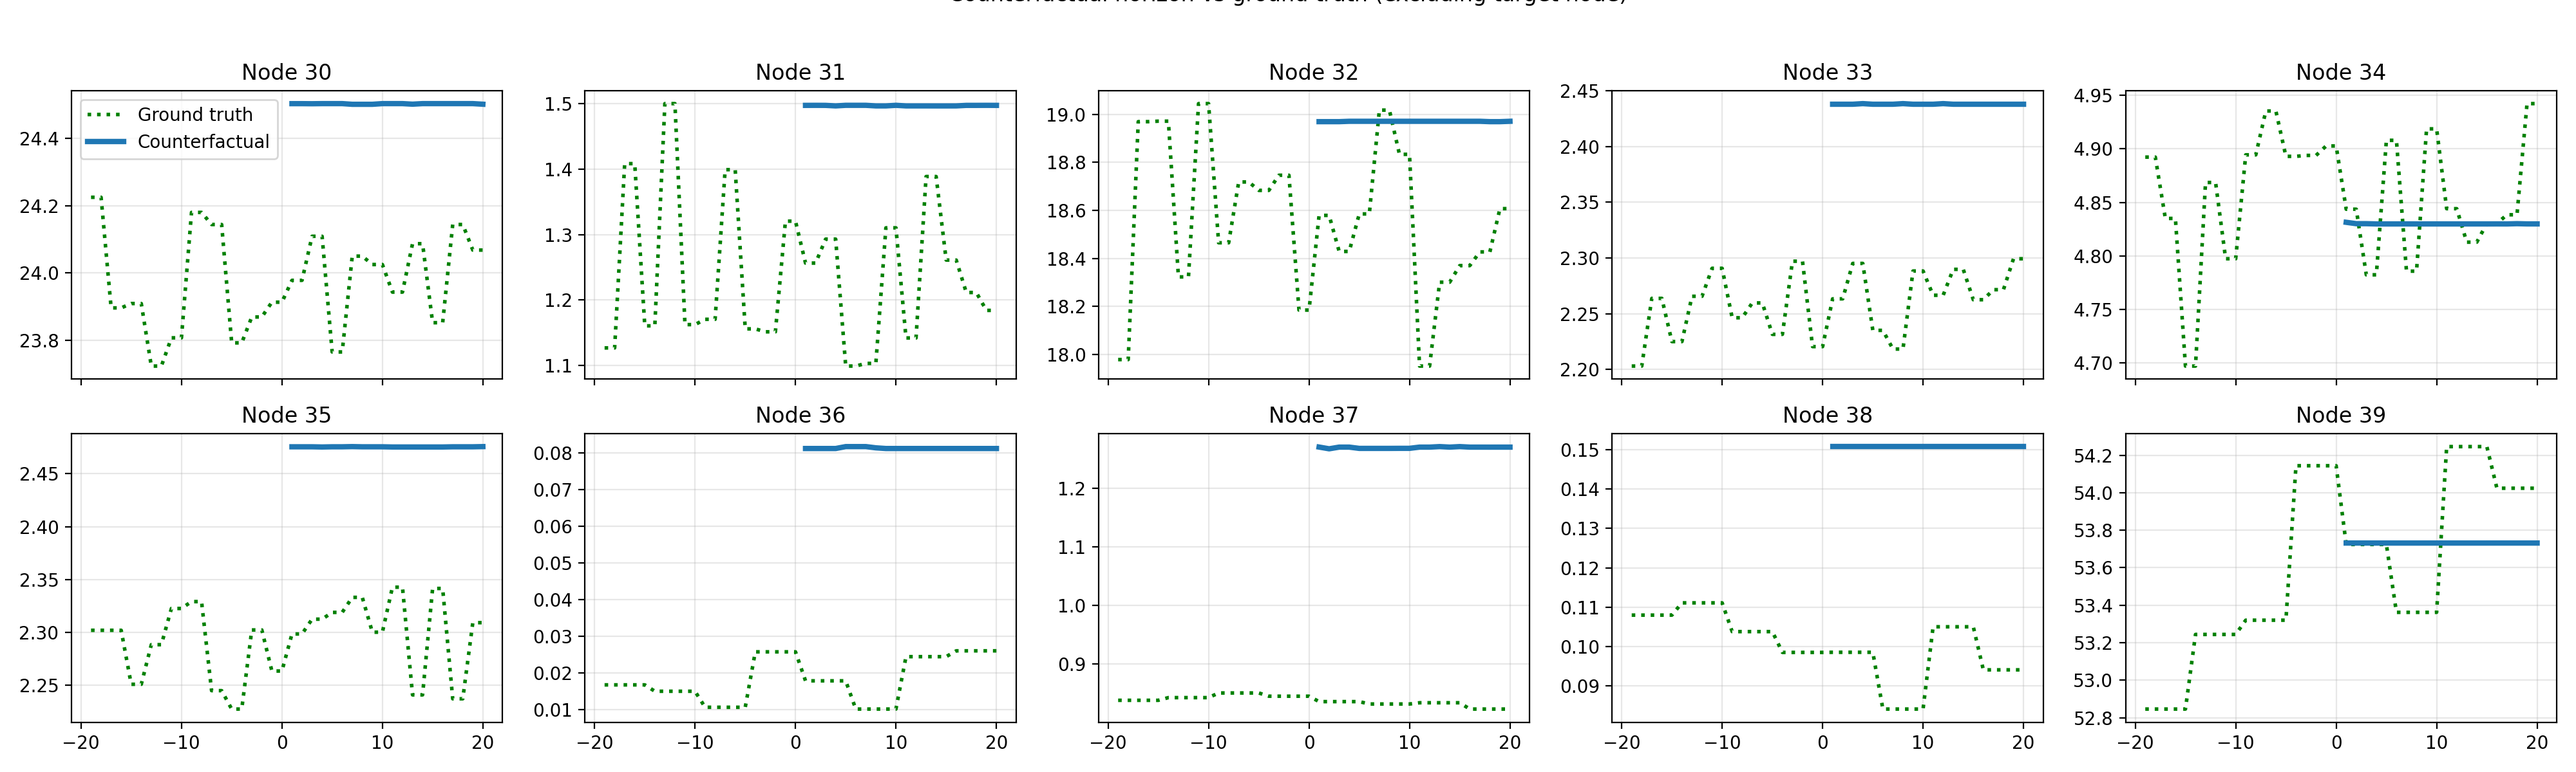
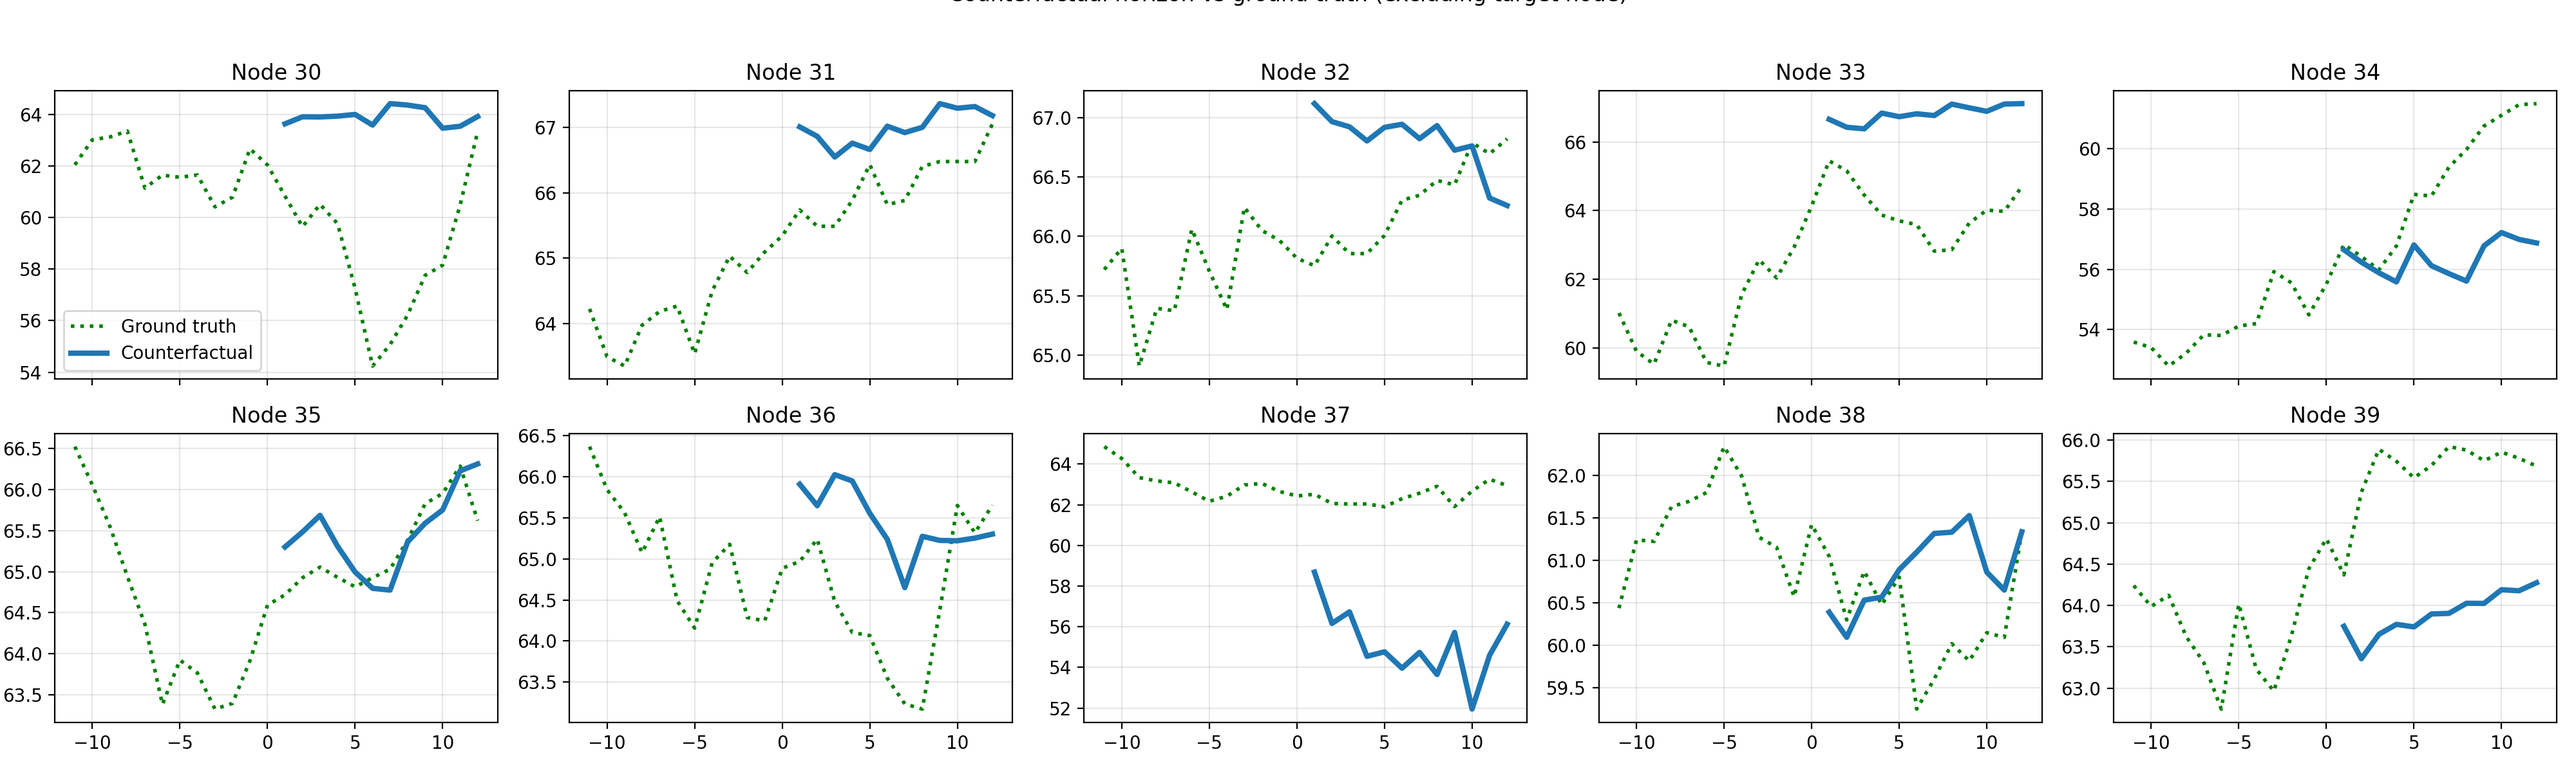
Found a mistake in the counterfactual generation logic, fixed that one. Added new target trajectory options.

diff --git a/main.py b/main.py
@@ -241,8 +241,6 @@ def add_counterfactual_subcommand(subparsers: argparse._SubParsersAction[argpars
     parser.add_argument("--spatial_weight", type=float, default=1e-3)
     parser.add_argument("--control_weight", type=float, default=0.0)
     parser.add_argument("--rate_limit", type=float, default=None)
-    parser.add_argument("--clamp_min", type=float, default=None)
-    parser.add_argument("--clamp_max", type=float, default=None)
     parser.add_argument("--lower_bound", type=float, default=None)
     parser.add_argument("--upper_bound", type=float, default=None)
     parser.add_argument("--device", type=str, default=None)
@@ -335,24 +333,6 @@ def add_counterfactual_subcommand(subparsers: argparse._SubParsersAction[argpars
         help="Number of lagged time steps to plot (from most recent backwards). If None, plots all available lag steps.",
     )
     parser.add_argument(
-        "--mask_target_history",
-        action="store_true",
-        help="Mask the target node's lag history when using the short-term forecaster during iterative counterfactuals.",
-    )
-    parser.add_argument(
-        "--mask_target_history_mode",
-        type=str,
-        choices=["zeros", "guidance", "alternating", "blend"],
-        default="zeros",
-        help="Strategy for masking the target node history when --mask_target_history is set.",
-    )
-    parser.add_argument(
-        "--mask_target_history_alpha",
-        type=float,
-        default=0.5,
-        help="Guidance weight for --mask_target_history_mode=blend (alpha * guidance + (1-alpha) * forecast).",
-    )
-    parser.add_argument(
         "--metrics_path",
         type=str,
         default=None,
@@ -376,20 +356,6 @@ def add_counterfactual_subcommand(subparsers: argparse._SubParsersAction[argpars
         choices=["baseline", "guidance", "adjusted", "original", "actions"],
         default="baseline",
         help="Which series to treat as the input for metrics in iterative guidance.",
-    )
-    parser.add_argument(
-        "--guidance_start_source",
-        type=str,
-        choices=["baseline", "ground_truth", "lag"],
-        default="baseline",
-        help="Select the starting point for the guidance trajectory interpolation.",
-    )
-    parser.add_argument(
-        "--guidance_interpolation",
-        type=str,
-        choices=["linear"],
-        default="linear",
-        help="Interpolation scheme for guidance trajectory (last point is always fixed).",
     )
     parser.add_argument(
         "--cf_horizon",
@@ -443,7 +409,7 @@ def add_counterfactual_subcommand(subparsers: argparse._SubParsersAction[argpars
     parser.add_argument(
         "--guidance_path_strategy",
         type=str,
-        choices=["diffusion", "linear"],
+        choices=["diffusion", "linear", "dc_shift", "step"],
         default="diffusion",
         help="How to construct the guidance trajectory between start (last lag) and adjusted target endpoint.",
     )
@@ -711,55 +677,6 @@ def prepare_target(default_target: torch.Tensor, path: Optional[str]) -> torch.T
     return tensor
 
 
-def mask_target_history_input(
-    forecaster_input: torch.Tensor,
-    target_node: int,
-    target_channel: int,
-    mask_value: Optional[torch.Tensor] = None,
-) -> torch.Tensor:
-    if target_node < 0:
-        return forecaster_input
-    if forecaster_input.dim() != 4:
-        raise ValueError("forecaster_input must have shape (batch, channels, nodes, lag)")
-    if target_node >= forecaster_input.size(2):
-        raise ValueError(f"target node {target_node} is out of range for {forecaster_input.size(2)} nodes")
-    masked = forecaster_input.clone()
-    masked[:, :, target_node, :] = 0.0
-    if mask_value is not None and 0 <= target_channel < masked.size(1):
-        fill = torch.as_tensor(mask_value, device=masked.device, dtype=masked.dtype)
-        masked[:, target_channel, target_node, :] = fill
-    return masked
-
-
-def compute_mask_target_value(
-    mode: str,
-    step: int,
-    guidance_target: Optional[torch.Tensor],
-    iterative_predictions: Optional[torch.Tensor],
-    target_node: int,
-    alpha: float,
-) -> Optional[torch.Tensor]:
-    if mode == "zeros":
-        return None
-    if guidance_target is None:
-        raise ValueError("guidance_target is required for non-zero mask_target_history modes.")
-    if target_node < 0 or target_node >= guidance_target.size(0):
-        raise ValueError(f"target node {target_node} is out of range for {guidance_target.size(0)} nodes")
-    guidance_idx = max(step - 1, 0)
-    guidance_val = guidance_target[target_node, guidance_idx]
-    forecast_val = guidance_val
-    if iterative_predictions is not None and step > 0:
-        forecast_val = iterative_predictions[target_node, step - 1]
-    if mode == "guidance":
-        return guidance_val
-    if mode == "alternating":
-        return guidance_val if step % 2 == 1 else forecast_val
-    if mode == "blend":
-        alpha_val = float(alpha)
-        return guidance_val * alpha_val + forecast_val * (1.0 - alpha_val)
-    raise ValueError(f"Unknown mask_target_history_mode {mode}")
-
-
 def adjust_target(
     target: torch.Tensor,
     percent: float,
@@ -965,6 +882,82 @@ def build_linear_guidance_target(
         interp = start_val + (end_val - start_val) * steps
         interp[-1] = end_val
         guidance[node] = interp
+
+    return guidance
+
+
+def build_dc_shift_guidance_target(
+    baseline: torch.Tensor,
+    adjusted_target: torch.Tensor,
+    past_window: torch.Tensor,
+    target_node: int,
+    target_channel: int,
+) -> torch.Tensor:
+    """
+    Use a flat guidance path at the adjusted target endpoint for the chosen node(s);
+    other nodes follow the baseline forecast.
+    """
+
+    if baseline.shape != adjusted_target.shape:
+        raise ValueError("baseline and adjusted_target must share the same shape for DC-shift guidance")
+    horizon = baseline.shape[1]
+    if horizon == 0:
+        return baseline.clone()
+
+    num_nodes = baseline.shape[0]
+    if target_node >= num_nodes or target_node < -1:
+        raise ValueError(f"target_adjust_node {target_node} is out of range for {num_nodes} nodes")
+    if target_channel < 0 or target_channel >= past_window.shape[-1]:
+        raise ValueError(f"target_channel {target_channel} is out of range for past window features {past_window.shape[-1]}")
+
+    guidance = baseline.clone()
+    target_nodes = range(num_nodes) if target_node < 0 else [target_node]
+
+    for node in target_nodes:
+        end_val = adjusted_target[node, -1].to(baseline.device, baseline.dtype)
+        guidance[node] = end_val
+
+    return guidance
+
+
+def build_step_guidance_target(
+    baseline: torch.Tensor,
+    adjusted_target: torch.Tensor,
+    past_window: torch.Tensor,
+    target_node: int,
+    target_channel: int,
+) -> torch.Tensor:
+    """
+    Hold the last observed lag value for half the horizon, then step to the adjusted target.
+    """
+
+    if baseline.shape != adjusted_target.shape:
+        raise ValueError("baseline and adjusted_target must share the same shape for step guidance")
+    horizon = baseline.shape[1]
+    if horizon == 0:
+        return baseline.clone()
+
+    num_nodes = baseline.shape[0]
+    if target_node >= num_nodes or target_node < -1:
+        raise ValueError(f"target_adjust_node {target_node} is out of range for {num_nodes} nodes")
+    if target_channel < 0 or target_channel >= past_window.shape[-1]:
+        raise ValueError(f"target_channel {target_channel} is out of range for past window features {past_window.shape[-1]}")
+
+    guidance = baseline.clone()
+    start_values = past_window[-1, :, target_channel].to(baseline.device, baseline.dtype)
+    target_nodes = range(num_nodes) if target_node < 0 else [target_node]
+
+    if horizon == 1:
+        for node in target_nodes:
+            guidance[node, 0] = adjusted_target[node, -1].to(baseline.device, baseline.dtype)
+        return guidance
+
+    step_idx = max(1, horizon // 2)
+    for node in target_nodes:
+        start_val = start_values[node]
+        end_val = adjusted_target[node, -1].to(baseline.device, baseline.dtype)
+        guidance[node, :step_idx] = start_val
+        guidance[node, step_idx:] = end_val
 
     return guidance
 
@@ -1808,6 +1801,22 @@ def run_counterfactual_command(args: argparse.Namespace) -> None:
                 args.target_adjust_node,
                 target_ch,
             )
+        elif args.guidance_path_strategy == "dc_shift":
+            guidance_target = build_dc_shift_guidance_target(
+                baseline_forecast,
+                adjusted_target,
+                past_window,
+                args.target_adjust_node,
+                target_ch,
+            )
+        elif args.guidance_path_strategy == "step":
+            guidance_target = build_step_guidance_target(
+                baseline_forecast,
+                adjusted_target,
+                past_window,
+                args.target_adjust_node,
+                target_ch,
+            )
         else:
             guidance_target = build_diffusion_guidance_target(
                 baseline_forecast,
@@ -1857,8 +1866,6 @@ def run_counterfactual_command(args: argparse.Namespace) -> None:
         spatial_weight=args.spatial_weight,
         control_energy_weight=args.control_weight,
         rate_limit=args.rate_limit,
-        clamp_min=args.clamp_min,
-        clamp_max=args.clamp_max,
         anchor_start_weight=args.anchor_start_weight,
         anchor_end_weight=args.anchor_end_weight,
         anchor_loss_scale=args.anchor_loss_scale,
@@ -1916,23 +1923,24 @@ def run_counterfactual_command(args: argparse.Namespace) -> None:
         edit_mask = edit_mask * base_mask
         edit_mask = edit_mask.to(device)
 
+        # Identify control nodes vs dependent nodes based on edit mask
+        # Control nodes: can be perturbed (edit_mask is non-zero at last timestep)
+        # Dependent nodes: cannot be perturbed (edit_mask is zero, includes target node)
+        node_is_control = (edit_mask[-1].sum(dim=-1) > 0)  # Shape (N,)
+        node_is_dependent = ~node_is_control  # Shape (N,)
+
         for step in range(iter_steps):
-            if 0 <= target_ch < current_window.shape[-1]:
-                iterative_prev_last_lag[:, step] = current_window[-1, :, target_ch]
-            mask_value = None
-            if args.mask_target_history and args.target_adjust_node >= 0:
-                mask_value = compute_mask_target_value(
-                    args.mask_target_history_mode,
-                    step,
-                    target_series,
-                    iterative_predictions,
-                    args.target_adjust_node,
-                    args.mask_target_history_alpha,
-                )
+            # Step 1: Shift left and duplicate last value for perturbation
+            # This creates a window where position T-1 is a copy of position T-2
+            shifted_window = torch.cat([current_window[1:], current_window[-1:].clone()], dim=0)
+
+            # Record pre-perturbation value (from the duplicated last position)
+            if 0 <= target_ch < shifted_window.shape[-1]:
+                iterative_prev_last_lag[:, step] = shifted_window[-1, :, target_ch]
+
+            # Get baseline prediction from shifted window (before perturbation)
             with torch.no_grad():
-                step_input = prepare_forecaster_input(current_window.unsqueeze(0))
-                if args.mask_target_history and args.target_adjust_node >= 0:
-                    step_input = mask_target_history_input(step_input, args.target_adjust_node, target_ch, mask_value)
+                step_input = prepare_forecaster_input(shifted_window.unsqueeze(0))
                 step_pred = forecaster_module.forward_pass(
                     short_forecaster,
                     step_input,
@@ -1967,14 +1975,12 @@ def run_counterfactual_command(args: argparse.Namespace) -> None:
                 anchor_weights=anchor_step,
                 node_weights=node_weights,
                 neighbor_only_inputs=short_meta.get("neighbor_only_inputs", False),
-                masked_target_node=args.target_adjust_node if args.mask_target_history else None,
-                masked_target_channel=target_ch if args.mask_target_history else None,
-                masked_target_value=mask_value if args.mask_target_history else None,
                 model_type=short_model_type,
                 lag_weights=short_meta.get("lag_weights"),
             )
 
-            fixed_values = current_window.unsqueeze(0).repeat(args.samples, 1, 1, 1)
+            # Step 2: Perturb the shifted window (only last position is editable)
+            fixed_values = shifted_window.unsqueeze(0).repeat(args.samples, 1, 1, 1)
             warm_start = fixed_values if args.warm_start else None
             samples = generator.generate(
                 sample_shape=sample_shape,
@@ -1986,10 +1992,9 @@ def run_counterfactual_command(args: argparse.Namespace) -> None:
                 fixed_values=fixed_values,
             )
 
+            # Evaluate samples and select best based on forecast MSE
             with torch.no_grad():
                 cf_input = prepare_forecaster_input(samples)
-                if args.mask_target_history and args.target_adjust_node >= 0:
-                    cf_input = mask_target_history_input(cf_input, args.target_adjust_node, target_ch, mask_value)
                 cf_preds = forecaster_module.forward_pass(
                     short_forecaster,
                     cf_input,
@@ -2016,10 +2021,16 @@ def run_counterfactual_command(args: argparse.Namespace) -> None:
                 iterative_edited_last_lag[:, step] = best_window[-1, :, target_ch]
             best_windows.append(best_window.detach().cpu())
 
-            next_step = best_window[-1].clone()
+            # Step 3: Construct f*(T) - hybrid of perturbed control values and forecasted dependent values
+            # - Control nodes: keep perturbed values from best_window[-1] (all features)
+            # - Dependent nodes: use forecast for target channel, perturbed values for other channels
+            #   (other channels of dependent nodes are unchanged since they weren't editable)
+            next_step = best_window[-1].clone()  # Start with all perturbed values (correct for control nodes)
             if 0 <= target_ch < next_step.shape[-1]:
-                next_step[:, target_ch] = best_pred.squeeze(-1)
-            current_window = torch.cat([best_window[1:], next_step.unsqueeze(0)], dim=0)
+                # Only update dependent nodes' target channel with forecast
+                # Control nodes keep their perturbed values for all features
+                next_step[node_is_dependent, target_ch] = best_pred[node_is_dependent, 0]
+            current_window = torch.cat([current_window[1:], next_step.unsqueeze(0)], dim=0)
 
         iterative_predictions_cpu = iterative_predictions.detach().cpu()
         iterative_prev_last_lag_cpu = iterative_prev_last_lag.detach().cpu()
@@ -2171,9 +2182,6 @@ def run_counterfactual_command(args: argparse.Namespace) -> None:
             "control_node_action_paths": [str(path) for path in control_action_paths] if control_action_paths else None,
             "metrics_input": args.metrics_input,
             "metrics_eps": args.metrics_eps,
-            "mask_target_history": args.mask_target_history,
-            "mask_target_history_mode": args.mask_target_history_mode,
-            "mask_target_history_alpha": args.mask_target_history_alpha,
             "counterfactual_mse": None,
             "best_sample_index": None,
             "best_counterfactual_prediction": iterative_predictions_cpu,
@@ -2331,9 +2339,6 @@ def run_counterfactual_command(args: argparse.Namespace) -> None:
         "use_predicted_target": args.use_predicted_target,
         "plot_path": str(plot_path),
         "top_cf_window_plot_path": str(top_window_plot_path) if top_window_plot_path else None,
-        "mask_target_history": args.mask_target_history,
-        "mask_target_history_mode": args.mask_target_history_mode,
-        "mask_target_history_alpha": args.mask_target_history_alpha,
         "counterfactual_mse": mse_cpu,
         "best_sample_index": best_idx,
         "best_counterfactual_prediction": best_cf_prediction,

diff --git a/counterfactual/guidance.py b/counterfactual/guidance.py
@@ -77,9 +77,6 @@ class ForecastGuidance:
         anchor_weights: Optional[torch.Tensor] = None,
         node_weights: Optional[torch.Tensor] = None,
         neighbor_only_inputs: bool = False,
-        masked_target_node: Optional[int] = None,
-        masked_target_channel: Optional[int] = None,
-        masked_target_value: Optional[torch.Tensor] = None,
         model_type: str = "stgcn",
         lag_weights: Optional[torch.Tensor] = None,
     ) -> None:
@@ -94,9 +91,6 @@ class ForecastGuidance:
         self.upper_bounds = upper_bounds
         self.baseline = baseline.to(device).float().unsqueeze(0) if baseline is not None else None
         self.neighbor_only_inputs = neighbor_only_inputs
-        self.masked_target_node = masked_target_node
-        self.masked_target_channel = masked_target_channel
-        self.masked_target_value = masked_target_value
         self.model_type = model_type
         self.lag_weights = lag_weights
         if anchor_weights is not None:
@@ -138,20 +132,6 @@ class ForecastGuidance:
             was_training = self.forecaster.training
             self.forecaster.train()
             forecaster_input = prepare_forecaster_input(x)
-            if self.masked_target_node is not None and self.masked_target_node >= 0:
-                if self.masked_target_node >= forecaster_input.size(2):
-                    raise ValueError(
-                        f"masked_target_node {self.masked_target_node} is out of range for {forecaster_input.size(2)} nodes"
-                    )
-                forecaster_input = forecaster_input.clone()
-                forecaster_input[:, :, self.masked_target_node, :] = 0.0
-                if (
-                    self.masked_target_value is not None
-                    and self.masked_target_channel is not None
-                    and 0 <= self.masked_target_channel < forecaster_input.size(1)
-                ):
-                    fill = torch.as_tensor(self.masked_target_value, device=forecaster_input.device, dtype=forecaster_input.dtype)
-                    forecaster_input[:, self.masked_target_channel, self.masked_target_node, :] = fill
             prediction = forward_pass(
                 self.forecaster,
                 forecaster_input,

diff --git a/counterfactual/config.py b/counterfactual/config.py
@@ -29,8 +29,6 @@ class GuidanceConfig:
     spatial_weight: float = 1e-3
     control_energy_weight: float = 0.0
     rate_limit: Optional[float] = None
-    clamp_min: Optional[float] = None
-    clamp_max: Optional[float] = None
     mask_strategy: str = "controls_only"
     max_grad_norm: Optional[float] = 10.0
     anchor_start_weight: float = 1.0
